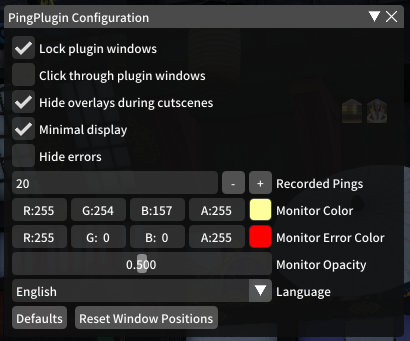
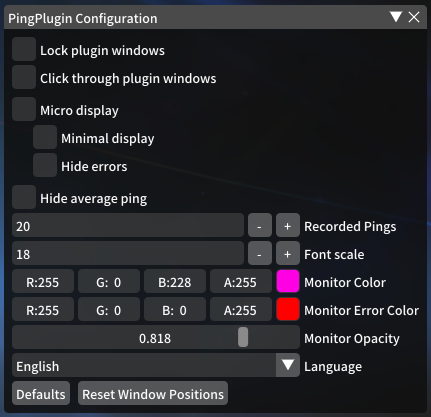
Add even smaller display (Closes #20)

diff --git a/PingPlugin/PingUI.cs b/PingPlugin/PingUI.cs
@@ -27,6 +27,7 @@ namespace PingPlugin
 
         private bool fontLoaded;
         private ImFontPtr uiFont;
+        private ImFontPtr microFont;
 
         public bool CutsceneActive { get; set; }
 
@@ -89,19 +90,55 @@ namespace PingPlugin
                 this.config.Save();
             }
 
-            var minimalDisplay = this.config.MinimalDisplay;
-            if (ImGui.Checkbox(Loc.Localize("MinimalDisplay", string.Empty), ref minimalDisplay))
+            ImGui.Spacing();
+
+            var displayMode = this.config.DisplayMode;
+            var displayMicro = displayMode == DisplayMode.Micro;
+            if (ImGui.Checkbox(Loc.Localize("MicroDisplay", string.Empty), ref displayMicro))
             {
-                this.config.MinimalDisplay = minimalDisplay;
+                this.config.DisplayMode = displayMicro ? DisplayMode.Micro : DisplayMode.Default;
                 this.config.Save();
             }
 
-            var hideErrors = this.config.HideErrors;
-            if (ImGui.Checkbox(Loc.Localize("HideErrors", string.Empty), ref hideErrors))
+            ImGui.Indent();
+            switch (this.config.DisplayMode)
             {
-                this.config.HideErrors = hideErrors;
-                this.config.Save();
+                case DisplayMode.Default:
+                    var minimalDisplay = this.config.MinimalDisplay;
+                    if (ImGui.Checkbox(Loc.Localize("MinimalDisplay", string.Empty), ref minimalDisplay))
+                    {
+                        this.config.MinimalDisplay = minimalDisplay;
+                        this.config.Save();
+                    }
+
+                    var hideErrors = this.config.HideErrors;
+                    if (ImGui.Checkbox(Loc.Localize("HideErrors", string.Empty), ref hideErrors))
+                    {
+                        this.config.HideErrors = hideErrors;
+                        this.config.Save();
+                    }
+                    break;
+                case DisplayMode.Micro:
+                    var microDisplayLast = this.config.MicroDisplayLast;
+                    if (ImGui.Checkbox(Loc.Localize("MicroShowLastPing", string.Empty), ref microDisplayLast))
+                    {
+                        this.config.MicroDisplayLast = microDisplayLast;
+                        this.config.Save();
+                    }
+
+                    var microDisplayAverage = this.config.MicroDisplayAverage;
+                    if (ImGui.Checkbox(Loc.Localize("MicroShowAveragePing", string.Empty), ref microDisplayAverage))
+                    {
+                        this.config.MicroDisplayAverage = microDisplayAverage;
+                        this.config.Save();
+                    }
+                    break;
+                default:
+                    throw new ArgumentOutOfRangeException();
             }
+            ImGui.Unindent();
+
+            ImGui.Spacing();
 
             var hideAveragePing = this.config.HideAveragePing;
             if (ImGui.Checkbox(Loc.Localize("HideAveragePing", string.Empty), ref hideAveragePing))
@@ -199,6 +236,25 @@ namespace PingPlugin
                 this.resettingMonitorPos = false;
             }
 
+            switch (this.config.DisplayMode)
+            {
+                case DisplayMode.Default:
+                    DrawFullMonitor();
+                    break;
+                case DisplayMode.Micro:
+                    DrawMicroMonitor();
+                    break;
+                default:
+                    throw new ArgumentOutOfRangeException();
+            }
+
+            ImGui.End();
+
+            ImGui.PopStyleVar();
+        }
+
+        private void DrawFullMonitor()
+        {
             string formatString;
             var formatParameters = new List<object>();
             if (this.config.MinimalDisplay)
@@ -220,9 +276,31 @@ namespace PingPlugin
 
             if (!this.config.HideErrors && this.pingTracker.LastError != WinError.NO_ERROR && this.pingTracker.LastError != WinError.ERROR_INVALID_NETNAME)
                 ImGui.TextColored(this.config.MonitorErrorFontColor, string.Format(Loc.Localize("UIError", string.Empty), (Enum.IsDefined(typeof(WinError), this.pingTracker.LastError) ? this.pingTracker.LastError.ToString() : ((int)this.pingTracker.LastError).ToString())));
-            ImGui.End();
+        }
 
-            ImGui.PopStyleVar();
+        private void DrawMicroMonitor()
+        {
+            ImGui.PushFont(this.microFont);
+
+            var text = "";
+
+            if (this.config.MicroDisplayLast)
+            {
+                text = $"{this.pingTracker.LastRTT}ms";
+                if (this.config.MicroDisplayAverage)
+                {
+                    text += "/";
+                }
+            }
+
+            if (this.config.MicroDisplayAverage)
+            {
+                text += $"{Math.Ceiling(this.pingTracker.AverageRTT)}ms";
+            }
+
+            ImGui.TextColored(this.config.MonitorFontColor, text);
+
+            ImGui.PopFont();
         }
 
         private void DrawGraph()
@@ -303,9 +381,17 @@ namespace PingPlugin
             {
                 var filePath = Path.Combine(this.pluginInterface.DalamudAssetDirectory.FullName, "UIRes", "NotoSansCJKjp-Medium.otf");
                 if (!File.Exists(filePath)) throw new FileNotFoundException("Font file not found!");
-                var jpRangeHandle = GCHandle.Alloc(GlyphRangesJapanese.GlyphRanges, GCHandleType.Pinned);
-                this.uiFont = ImGui.GetIO().Fonts.AddFontFromFileTTF(filePath, Math.Max(8, this.config.FontScale), null, jpRangeHandle.AddrOfPinnedObject());
-                jpRangeHandle.Free();
+                
+                var fontPx = Math.Max(8, this.config.FontScale);
+                var fontPxMicro = (float)Math.Floor(fontPx * 1.5);
+
+                {
+                    var jpRangeHandle = GCHandle.Alloc(GlyphRangesJapanese.GlyphRanges, GCHandleType.Pinned);
+                    this.uiFont = ImGui.GetIO().Fonts.AddFontFromFileTTF(filePath, fontPx, null, jpRangeHandle.AddrOfPinnedObject());
+                    jpRangeHandle.Free();
+                }
+                
+                this.microFont = ImGui.GetIO().Fonts.AddFontFromFileTTF(filePath, fontPxMicro, null);
             }
             catch (Exception e)
             {
@@ -332,6 +418,7 @@ namespace PingPlugin
             GC.SuppressFinalize(this);
             this.uiBuilder.BuildFonts -= BuildFont;
             this.uiFont.Destroy();
+            this.microFont.Destroy();
             this.uiBuilder.RebuildFonts();
         }
     }

diff --git a/PingPlugin/PingConfiguration.cs b/PingPlugin/PingConfiguration.cs
@@ -27,6 +27,9 @@ namespace PingPlugin
         public bool MonitorIsVisible { get; set; }
         public bool LockWindows { get; set; }
         public bool MinimalDisplay { get; set; }
+        public bool MicroDisplayLast { get; set; } = true;
+        public bool MicroDisplayAverage { get; set; }
+        public DisplayMode DisplayMode { get; set; }
         public bool HideErrors { get; set; } // Generally, the errors are just timeouts, so you may want to hide them.
         public bool HideOverlaysDuringCutscenes { get; set; }
         public bool HideAveragePing { get; set; }

diff --git a/PingPlugin/DisplayMode.cs b/PingPlugin/DisplayMode.cs
@@ -1,0 +1,8 @@
+namespace PingPlugin
+{
+    public enum DisplayMode
+    {
+        Default,
+        Micro,
+    }
+}
